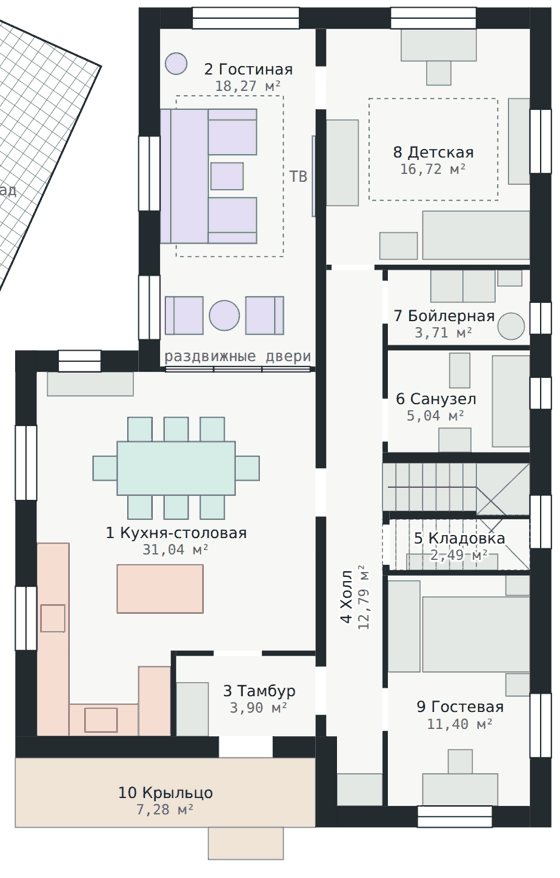
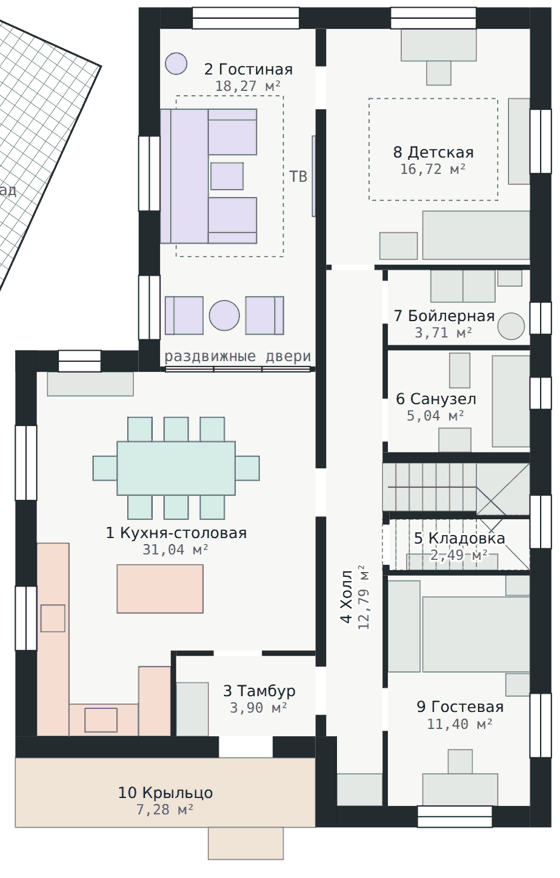
Variant 4: remove the wardrobe next to the kids room door
Claude-Session: https://claude.ai/code/session_01Nq58rekvZSDXxWiDhZZmV7

Changed region(s): [[0.6375, 0.1538, 0.6679, 0.2153]]

diff --git a/dom/v4-shirina-10m.html b/dom/v4-shirina-10m.html
@@ -178,7 +178,7 @@ tr.out td{color:var(--muted)}
 <li><b>Вариант 4: спереди дом шириной 10 м.</b> Задняя часть дома шириной 7,7 м идёт по линии выступа на 6,4 м от задней стены. Дальше дом одной ступенькой расширяется влево на 2,3 м и до фасада идёт шириной 10 м. Место ступеньки выбрано так, чтобы и здесь до склада оставалось 0,7 м: угол широкой части смотрит на передний угол склада. Правая стена по-прежнему в 2 м от границы. Планировка как в третьем варианте: слева вход, кухня, столовая и гостиная, справа холл с лестницей, санузел, бойлерная, детская и гостевая. Левая половина в широкой части стала 5,2 м вместо 3,6.</li>
 <li><b>Кухня, столовая и гостиная.</b> Тамбур 3,9 м² со шкафом стоит у несущей стены, рядом с ним в углу кухня. Столешница идёт вдоль левой стены, мойка под окном, в углу у фасада варочная с вытяжкой, у стены тамбура колонны с холодильником и духовкой, остров 1,6 × 0,9 м. За кухней стол 2,2 × 1,0 м на 8 человек и буфет, кухня-столовая вместе 31 м². Гостиная сзади за стеклянными раздвижными дверями, 18,3 м²: П-образный диван, телевизор на несущей стене, выход в сад. Она осталась шириной 2,9 м, потому что задняя часть дома из-за склада не расширяется.</li>
 <li><b>Лестница у правой стены,</b> как в первом варианте. Нижний марш идёт из холла к правой стене, там четыре забежные ступени, верхний марш возвращается над кладовкой. 18 подъёмов по 170 мм, проступь 250 мм. Дверь в кладовку сделана из холла, там, где под лестницей выше всего.</li>
-<li><b>Детская</b> на месте спальни первого этажа, 3,8 × 4,4 м, 16,7 м². В неё две двери: из холла, как раньше, и новая из гостиной через несущую стену, ближе к саду, в стороне от телевизора. Кровать 0,9 × 2,0 м у правой стены, письменный стол под задним окном, шкаф у несущей стены, под боковым окном низкие полки для игрушек, посередине ковёр для игр. Над дверным проёмом в несущей стене нужна перемычка.</li>
+<li><b>Детская</b> на месте спальни первого этажа, 3,8 × 4,4 м, 16,7 м². В неё две двери: из холла, как раньше, и новая из гостиной через несущую стену, ближе к саду, в стороне от телевизора. Кровать 0,9 × 2,0 м у правой стены, письменный стол под задним окном, под боковым окном низкие полки для игрушек, посередине ковёр для игр. Над дверным проёмом в несущей стене нужна перемычка.</li>
 <li><b>Несущая стена вдоль дома</b> осталась на месте, 13,2 м от задней стены до тамбура. На первом этаже она отделяет тамбур, кухню и гостиную от холла, детской и гостевой, в ней три двери: из гостиной в детскую и две в холл. На втором этаже над ней стоят стены мастер-спальни, гардеробной, кабинета и спальни спереди. Перекрытия опираются на неё и на наружные стены: справа пролёт 3,8 м, слева в широкой части 5,2 м, там нужны плиты перекрытия или усиленные балки. Над широкой частью конёк идёт поперёк дома, его балка опирается на фронтоны и посередине на эту стену. Стеклянная перегородка перед гостиной ненесущая.</li>
 <li><b>Крыша буквой Т, уклон 30°.</b> Над широкой частью конёк идёт поперёк дома на высоте ≈ 8,5 м от пола 1 этажа (≈ 8,9 м от земли), фронтоны смотрят на склад и на границу, к фасаду спускается скат. Над задней частью конёк вдоль дома, на 0,35 м ниже, фронтон смотрит в сад. Скаты стыкуются ендовами, свесы по 500 мм. Со стороны склада у широкой части фронтон, поэтому снег на склад не сходит. С заднего ската широкой части снег падает в проход у переднего угла склада, там нужны снегозадержатели. Балкон и крыльцо оказываются под передним скатом.</li>
 <li><b>Мастер-спальня</b> занимает весь второй этаж выступа, 29,7 м². Несущая стена проходит через неё широким проёмом 2,6 м: справа кровать, слева зона отдыха с двумя креслами у заднего окна и рабочим столом у бокового. Из коридора в неё по-прежнему проходишь через гардеробную, в свой санузел ведут две двери. Спальня 4 стала Г-образной, 14,4 м²: кровать в узкой части у несущей стены, в широкой части шкаф 3 м и стол у окна.</li>
@@ -337,7 +337,7 @@ drawPlan(document.getElementById('plan1'),{
   ['l',1650,2500,600,500],['l',3540,2000,60,1500],
   ['l',800,5000,700,700],['l',800,5000,160,700],['l',2300,5000,700,700],['l',2840,5000,160,700],
   ['f',1000,12200,600,1000],['f',-1400,6400,1600,450],['f',4000,13900,850,600],
-  ['f',5600,3400,2000,900],['f',3800,1700,600,1600],['f',5200,0,1400,600],['f',5675,600,450,450],['f',7200,1300,400,1600],['f',4800,3800,700,500],
+  ['f',5600,3400,2000,900],['f',5200,0,1400,600],['f',5675,600,450,450],['f',7200,1300,400,1600],['f',4800,3800,700,500],
   ['f',7000,4500,450,300],['f',5750,4500,600,600],['f',6350,4500,600,600],
   ['f',6900,6100,700,1700],['f',6100,6050,380,650],['f',5900,7450,600,450],
   ['f',5300,9800,1700,300],
@@ -696,8 +696,8 @@ B(7000,4500,450,300,1200,750,white);Cyl(7250,5550,250,0,1500,'#e8e8e8');B(5750,4
 B(6900,6100,700,1700,0,550,'#f7f7f5');B(6960,6180,580,1540,550,5,'#bfd6de');toiletY(6100,6050,false);
 B(5900,7450,600,450,0,800,light);B(6000,7500,400,350,800,80,white);B(5950,7885,500,15,1100,700,mirror,null,{roughness:0.1,metalness:0.4});
 B(5300,9800,1700,300,0,1300,light);
-/* детская: кровать у правой стены, стол под окном, шкаф у несущей стены, низкие полки под боковым окном, ковёр для игр */
-bed(5600,3400,2000,900,'E');B(3800,1700,600,1600,0,2200,'#e8e2d6');B(4398,2499,4,2,20,2160,'#9a9a96');B(4400,2420,14,20,850,400,dark);B(4400,2560,14,20,850,400,dark);
+/* детская: кровать у правой стены, стол под окном, низкие полки под боковым окном, ковёр для игр */
+bed(5600,3400,2000,900,'E');
 table(5200,0,1400,600,0);chair(5900,825,'S');
 B(7200,1300,400,1600,0,800,'#e8e2d6');[[7250,1400,'#e07a5f'],[7250,1900,'#81b29a'],[7250,2400,'#f2cc8f']].forEach(([x,y,c])=>B(x,y,300,380,420,300,c));
 B(4600,1300,2400,1900,10,8,'#cfe0d6');B(4800,3800,700,500,0,450,'#e0b85a');
